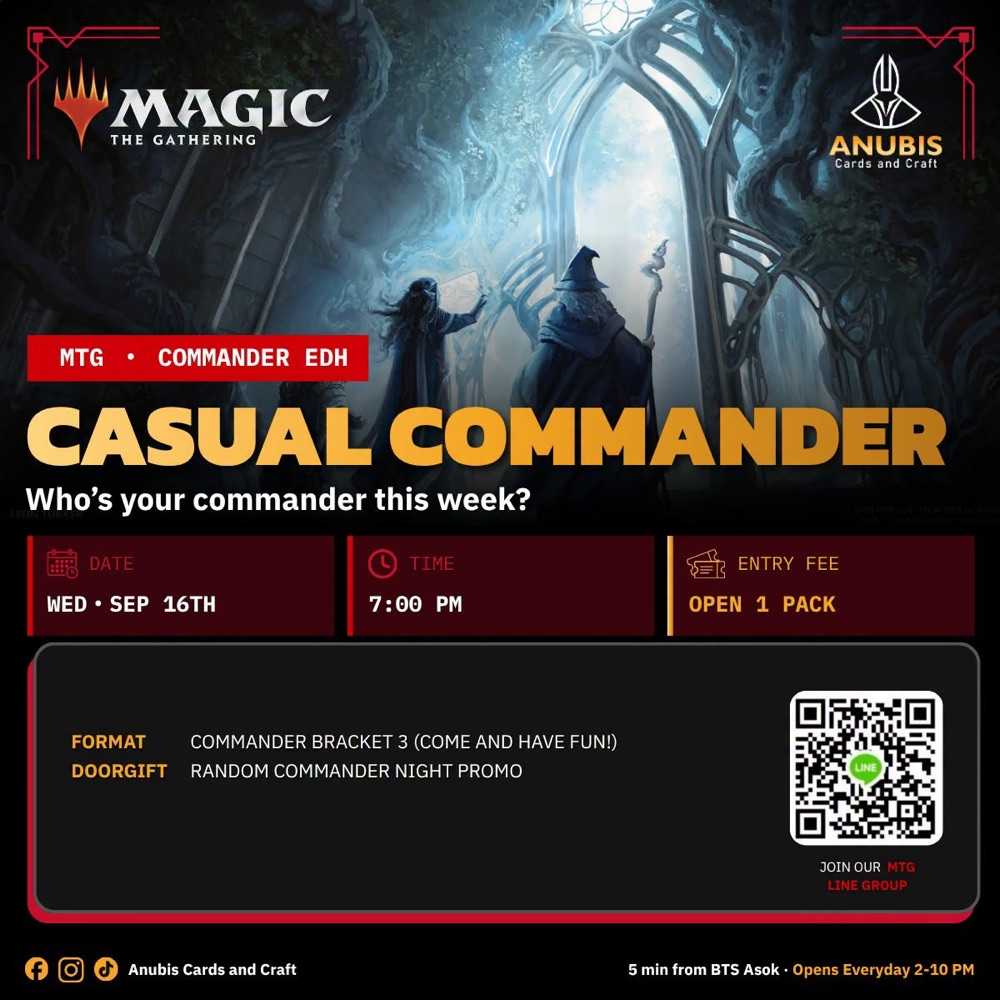
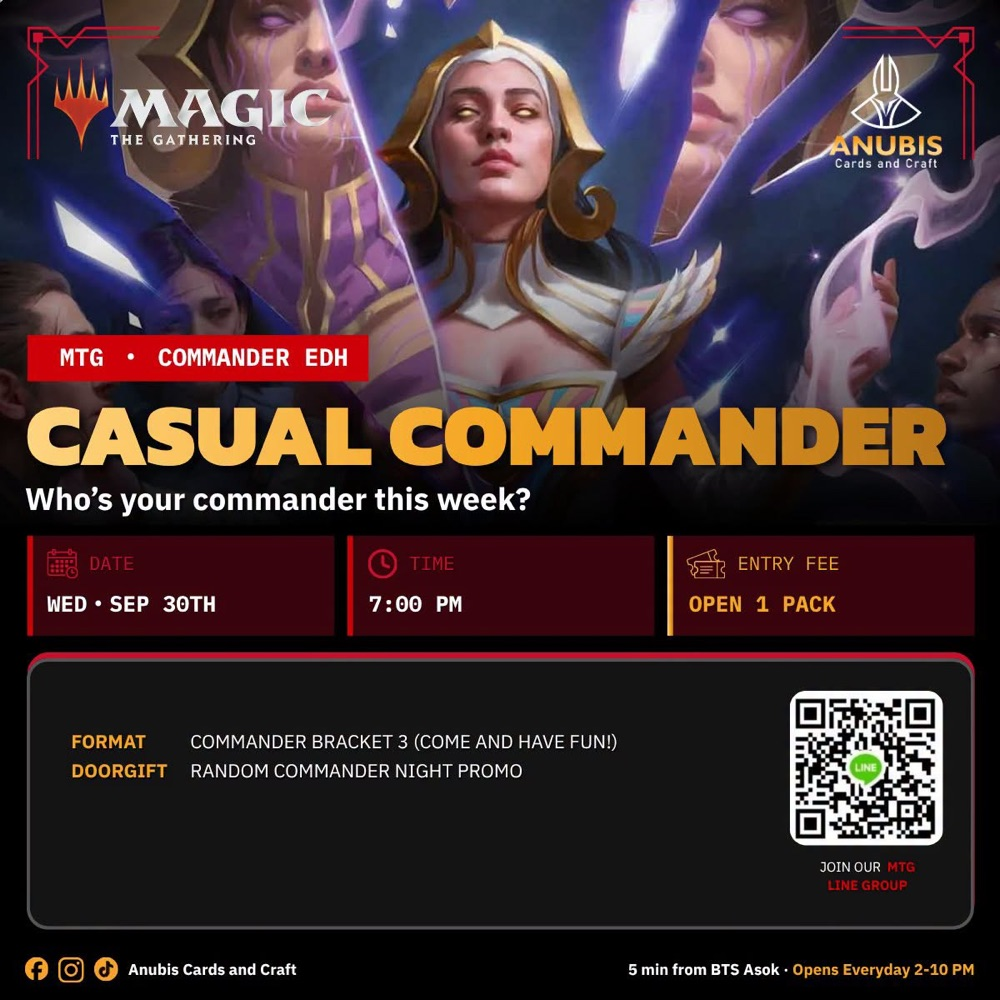
Events: week of Sep 28 to Oct 4, sign-up links
Great Ball League, Great Hunny Rescue and Summoner Skirmish #2 as
majors; UVS and Playriftbound sign-up links for Riftbound; event
pop-ups get a Sign up button when an event has a link.

diff --git a/events.js b/events.js
@@ -8,7 +8,7 @@
   games:     label + accent color (CI v3.0 game accents).
 */
 window.ANUBIS = {
-  updated: "2026-09-19",
+  updated: "2026-09-28",
   source: "https://www.facebook.com/AnubisCardsandCraft",
 
   games: {
@@ -23,43 +23,44 @@ window.ANUBIS = {
     { dow: 1, game: "pokemon",   title: "Gym Battle",               time: "19:00" },
     { dow: 2, game: "lorcana",   title: "Casual On-Demand",         time: "19:30", note: "Learn to Play at 19:00" },
     { dow: 3, game: "mtg",       title: "Casual Commander",         time: "19:00" },
-    { dow: 3, game: "riftbound", title: "Nexus Night 1v1 (Bo1)",    time: "20:00" },
+    { dow: 3, game: "riftbound", title: "Nexus Night 1v1 (Bo1)",    time: "20:00", note: "Register ahead on Playriftbound with your Riot ID" },
     { dow: 4, game: "lorcana",   title: "Casual Core Constructed",  time: "19:30", note: "Learn to Play at 19:00" },
     { dow: 5, game: "mtg",       title: "Friday Night Modern",      time: "19:00" },
-    { dow: 5, game: "riftbound", title: "Casual Best-of-1",         time: "20:00" },
-    { dow: 0, game: "riftbound", title: "Nexus Night 1v1 (Bo3)",    time: "14:00" }
+    { dow: 5, game: "riftbound", title: "Casual Best-of-1",         time: "20:00", note: "Register ahead on Playriftbound with your Riot ID" },
+    { dow: 0, game: "riftbound", title: "Nexus Night 1v1 (Bo3)",    time: "14:00", note: "Register ahead on Playriftbound with your Riot ID" }
   ],
 
+  // link: optional sign-up URL (https only). LINE links get a "Sign up in the LINE group" button, others "Sign up".
   dated: [
-    // Week of Sep 14 to 20 (FB weekly post, 2026-09-13)
-    { date: "2026-09-14", game: "pokemon", title: "Gym Battle", time: "19:00", fee: "150 THB",
-      detail: "Includes 2 packs of Pitch Black (TH). Swiss 3 rounds. 32 players. Promo for everyone.",
-      img: "img/events/gym-battle.jpg" },
-    { date: "2026-09-15", game: "lorcana", title: "Casual On-Demand", time: "19:30", fee: "250 THB",
-      detail: "Core Constructed (Set 9 to 13), Coconut, or Pack Rush (450 THB). New players at 19:00 for Learn to Play. No sign-up needed." },
-    { date: "2026-09-16", game: "mtg", title: "Casual Commander", time: "19:00", fee: "Open 1 pack",
-      detail: "Who's your commander this week?", img: "img/events/casual-commander.jpg" },
-    { date: "2026-09-16", game: "riftbound", title: "Nexus Night 1v1 (Bo1)", time: "20:00", fee: "300 THB",
-      detail: "Max 5 rounds. 32 players. Register in UVS (opened Mon Sep 14, 12:00)." },
-    { date: "2026-09-17", game: "lorcana", title: "Casual Core Constructed", time: "19:30", fee: "250 THB",
-      detail: "Core Constructed (Set 9 to 13) or Coconut. Learn to Play at 19:00. Walk-ins welcome." },
-    { date: "2026-09-18", game: "mtg", title: "Friday Night Modern", time: "19:00", fee: "240 THB",
-      detail: "Includes 1 HOB booster pack." },
-    { date: "2026-09-18", game: "riftbound", title: "Casual Best-of-1", time: "20:00", fee: "250 THB",
-      detail: "Standard Constructed. 4 rounds. 24 players. Practice round, no Nexus Night promo.",
-      img: "img/events/riftbound-casual-bo1.jpg" },
-    { date: "2026-09-19", game: "lorcana", title: "Attack of the Vine Set Championship", time: "10:00", fee: "400 THB", major: true,
-      detail: "Core Constructed Best-of-3, cut to Top 8. 36 players. Champion playmat, Top 8 foil promo, participation promo. Registration opens Tue Sep 15, 12:00 in the Lorcana OpenChat note.",
-      img: "img/events/set-championship.jpg" },
-    { date: "2026-09-20", game: "riftbound", title: "Nexus Night 1v1 (Bo3)", time: "14:00", fee: "300 THB",
-      detail: "4 rounds. 32 players. Register in UVS." },
-
-    // September majors (FB monthly calendar, 2026-09-10)
+    // Pre-Release (graphic from Philly, 2026-09-19)
     { date: "2026-09-25", game: "mtg", title: "Reality Fractured Pre-Release", time: "18:30", fee: "1,100 THB", major: true,
       detail: "First look at the new reality. Sealed from the Reality Fractured Prerelease Kit, which we open at the event and build a deck from. Prizes: 1 Reality Fractured Play Booster at 0 to 1 wins, 2 at 2 wins, 3 at 3 wins. 15 players max. Register in the Anubis MTG LINE group.",
       img: "img/events/mtg-reality-fractured-prerelease.jpg" },
-    { date: "2026-09-28", game: "pokemon", title: "Great Ball League", time: "", major: true,
-      detail: "Bring your favorite deck and battle your way to victory. Details on Facebook.",
-      img: "img/events/september-majors.jpg" }
+
+    // Week of Sep 28 to Oct 4 (FB weekly post "PACKED SCHEDULE THIS WEEK!", 2026-09-28)
+    { date: "2026-09-28", game: "pokemon", title: "Great Ball League", time: "19:00", fee: "200 THB", major: true,
+      detail: "Standard, Best-of-1, Swiss 5 rounds, cut to Top 4. Everyone gets 3 packs of Pitch Black (TH) and a Brave Bangle (TH) promo. 1st: 20 League Points, a booster box, top promo and UBL priority. 2nd: 12 League Points, top promo and UBL priority. 3rd to 4th: 10 League Points. 5th to 8th: 8 League Points. 32 players max. Register in the Pokémon LINE group note.",
+      link: "https://line.me/ti/g/XtyPKcvh2J", img: "img/events/great-ball-league.jpg" },
+    { date: "2026-09-29", game: "lorcana", title: "Casual On-Demand", time: "19:30", fee: "250 THB",
+      detail: "Core Constructed (Set 9 to 13), Coconut, or Pack Rush (450 THB). New players at 19:00 for Learn to Play. No sign-up needed." },
+    { date: "2026-09-30", game: "mtg", title: "Casual Commander", time: "19:00", fee: "Open 1 pack",
+      detail: "Commander Bracket 3, come and have fun. Doorgift: a random Commander Night promo.",
+      img: "img/events/casual-commander.jpg" },
+    { date: "2026-09-30", game: "riftbound", title: "Nexus Night 1v1 (Bo1)", time: "20:00", fee: "300 THB",
+      detail: "Max 5 rounds. 32 players. Sign up on the UVS event locator.",
+      link: "https://locator.riftbound.uvsgames.com/events/897740" },
+    { date: "2026-10-01", game: "lorcana", title: "Casual Core Constructed", time: "19:30", fee: "250 THB",
+      detail: "Core Constructed (Set 9 to 13) or Coconut. Learn to Play at 19:00. No sign-up needed." },
+    { date: "2026-10-02", game: "mtg", title: "Reality Fractured Draft", time: "19:00", fee: "650 THB",
+      detail: "Booster draft with the new Reality Fractured set." },
+    { date: "2026-10-02", game: "riftbound", title: "Casual Best-of-1", time: "20:00", fee: "250 THB",
+      detail: "Casual Night for newbies and for testing new decks. 4 rounds. 24 players. No Nexus Night promo pack. Sign up on Playriftbound with your Riot ID.",
+      link: "https://playriftbound.com/en-US/events/117342936808815906" },
+    { date: "2026-10-03", game: "lorcana", title: "The Great Hunny Rescue", time: "14:00", fee: "250 THB", major: true,
+      detail: "Special Lorcana event, starts in the afternoon. Pick Core Constructed or Coconut, and everyone gets the \"If I Didn't Have You\" promo. Registration opens Wed Sep 30, 12:00 in the Lorcana OpenChat note. Full details coming soon on Facebook.",
+      link: "https://line.me/ti/g2/0ZzAtnVpBzwzbNoA7lRW3YPKL8xV7fzdire42g" },
+    { date: "2026-10-04", game: "riftbound", title: "Summoner Skirmish #2", time: "14:00", fee: "400 THB", major: true,
+      detail: "Check-in 13:30. 5 rounds, cut to Top 8. 32 players. Register in the Riftbound LINE group note (opens Tue Sep 29, 18:00).",
+      link: "https://line.me/ti/g/c3nBGT9dUe" }
   ]
 };

diff --git a/index.html b/index.html
@@ -1299,7 +1299,9 @@ c-21 -9 -479 -194 -1017 -413 l-979 -397 -337 -1570 c-185 -863 -335 -1574
         ${e.note ? `<dt>${T('Note', 'หมายเหตุ', 'メモ')}</dt><dd>${esc(e.note)}</dd>` : ''}
       </dl>
       <p style="margin:0;color:var(--n400);font-size:14px">${e.weekly ? T('This is our usual weekly slot. Fee and format are confirmed in the weekly Facebook post.', 'นี่คือรอบประจำสัปดาห์ ค่าสมัครและรูปแบบการเล่นจะยืนยันอีกทีในโพสต์ประจำสัปดาห์บน Facebook ครับ', '毎週の定例枠です。参加費とフォーマットはFacebookの週間投稿で確定します。') : T('Registration and questions go through our Facebook page chat, unless the details above say otherwise.', 'ลงทะเบียนหรือสอบถาม ทักแชทเพจ Facebook ได้เลยครับ ยกเว้นอีเวนต์ที่ระบุช่องทางอื่นไว้ด้านบน', '参加登録・ご質問はFacebookページのチャットへ。上記に別の方法が書かれている場合はそちらに従ってください。')}</p>
-      <div class="cta"><a class="btn btn-gold" href="https://m.me/AnubisCardsandCraft" target="_blank" rel="noopener"><svg><use href="#i-msg"/></svg>${T('Chat to register', 'ทักแชทลงทะเบียน', 'チャットで登録')}</a><a class="btn btn-ghost" href="https://www.facebook.com/AnubisCardsandCraft" target="_blank" rel="noopener"><svg><use href="#i-fb"/></svg>${T('See on Facebook', 'ดูบน Facebook', 'Facebookで見る')}</a></div>`;
+      <div class="cta">${e.link && /^https:\/\//.test(e.link)
+        ? `<a class="btn btn-gold" href="${esc(e.link)}" target="_blank" rel="noopener"><svg><use href="#i-arrow"/></svg>${/line\.me\//.test(e.link) ? T('Sign up in the LINE group', 'ลงทะเบียนในกลุ่มไลน์', 'LINEグループで登録') : T('Sign up', 'ลงทะเบียน', '参加登録')}</a>`
+        : `<a class="btn btn-gold" href="https://m.me/AnubisCardsandCraft" target="_blank" rel="noopener"><svg><use href="#i-msg"/></svg>${T('Chat to register', 'ทักแชทลงทะเบียน', 'チャットで登録')}</a>`}<a class="btn btn-ghost" href="https://www.facebook.com/AnubisCardsandCraft" target="_blank" rel="noopener"><svg><use href="#i-fb"/></svg>${T('See on Facebook', 'ดูบน Facebook', 'Facebookで見る')}</a></div>`;
     $('#dlg').showModal();
   };
 
